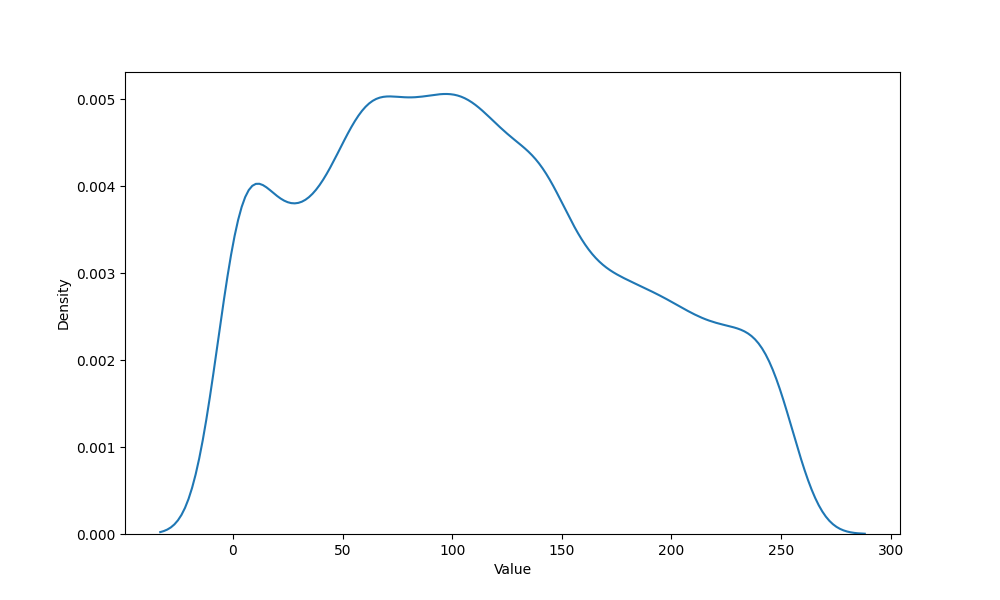
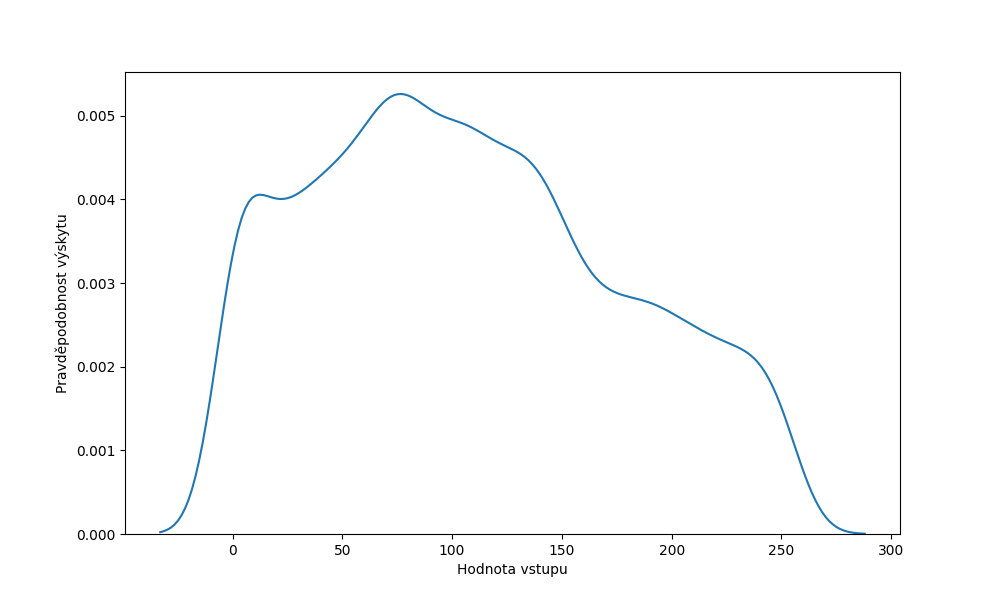
added option to select random number distributions in parser

diff --git a/models/parse.py b/models/parse.py
@@ -1,3 +1,6 @@
+from importlib.metadata import distribution
+from math import dist
+from os import replace
 import re
 import argparse
 
@@ -525,6 +528,85 @@ class Parser(object):
 
 	####################################################################
 
+	def generate_tmul2_tb_random(self, distribution: str) ->; str:
+		"""loads up the tmul2_tb_random UPPAAL template and updates it with the data obtained from
+		user's input arguments.
+		distribution opts: ['uni_ini', 'same_triang', 'beta_uni', 'triang_beta', 'gamma_2norm', 'triang_weibull', 'same_uni', 'const_norm']
+		"""
+		if distribution == "uni_uni":
+			comment = "    //Both inputs uniform distribution\n"
+			replacement =  "    input_a = fint(random(0,imax));\n\n"
+
+			replacement += "    input_b = fint(random(0,imax));\n"
+
+		elif distribution == "same_triang":
+			comment = "    //Both inputs same number - triangular dist. (eg. isqrt algo)\n"
+			replacement =  "    input_a = fint(random_tri(-10,10,imax));\n\n"
+
+			replacement += "    input_b = input_a;\n"
+
+		elif distribution == "beta_uni":
+			comment =  "    //Betavariate dist. and (slightly deformed) uniform dist. (eg. ellipse midpoint algo)\n"
+			replacement =  "    input_a = fint(random_beta(0.5, 5.0));\n"
+			replacement += "    input_a = input_a * 40;\n\n"
+
+			replacement += "    input_b = fint(random(-10,imax));\n"
+			replacement += "    if(input_b &lt; 0) { input_b = fint(random(2,15)); }\n"
+
+		elif distribution == "triang_beta":
+			comment = "    //Triangular dist. and betavariate dist. (eg. AKS primality test)\n"
+			replacement =  "    input_a = fint(random_tri(-50,70,450));\n"
+			replacement += "    if(input_a &gt; imax-1) { input_a = fint(random(0,150)); }\n\n"
+
+			replacement += "    input_b = fint(random_beta(2.0,2.0));\n"
+			replacement += "    input_b = input_b * 255;\n"
+
+		elif distribution == "gamma_2norm":
+			comment = "    //Gammavariate and two normal distributions (eg. Sieve of Pritchard algo.)\n"
+			replacement =  "    input_a = fint(random_gamma(1.0,0.8));\n"
+			replacement += "    input_a = input_a * 7;\n\n"
+
+			replacement += "    input_b = fint(random(0,imax));\n"
+			replacement += "    if(input_b &gt; 100 and input_b &lt; 175) { input_b = fint(random(0,75)); }\n"
+			replacement += "    if(input_b &gt;= 175 and input_b &lt; 200) { input_b = fint(random(200,imax)); }\n"
+
+		elif distribution == "triang_weibull":
+			comment = "    //Triangular and weibullvariate distribution (eg. ElGamal Signature algo.)\n"
+			replacement =  "    input_a = fint(random_tri(0,0,350));\n"
+			replacement += "    if(input_a &gt; 255) { input_a = fint(random(0,50)); }\n\n"
+
+			replacement += "    input_b = fint(random_weibull(1.7,1.7));\n"
+			replacement += "    input_b = input_b * 60;"
+			replacement += "    if(input_b &gt; 255) { input_b = fint(random(0,25)); }\n"
+
+		elif distribution == "same_uni":
+			comment = "    //Both inputs same number, uniform distribution (eg. Circle Point by point algo.)\n"
+			replacement =  "    input_a = fint(random(2,imax));\n\n"
+
+			replacement += "    input_b = input_a;\n"
+
+		elif distribution == "const_norm":
+			comment = "    //Constant 2 and normal distribution (eg. Bresenham line algorithm)\n"
+			replacement =  "    input_a = 2;\n\n"
+			replacement += "    input_b = fint(random_normal(50, 30));\n"
+			replacement += "    if(input_b &lt; 0) { input_b = fint(random(100,imax)); }\n"
+			
+		with open("./templates/tmul2_tb_random_template.xml") as f:
+			original = f.readlines()
+
+		tmul2_tb_random = original
+
+		for i, line in enumerate(original):
+			line = line.strip()
+
+			if line == "//Distribution":
+				tmul2_tb_random[i] = comment
+				tmul2_tb_random.insert(i+1, replacement)
+
+		return "".join(tmul2_tb_random)
+
+	####################################################################
+
 	def append_template(self, path: str):
 		"""Loads up a template for part of the xml file that requires no
 		changing. Appends it to the out_files list.
@@ -537,7 +619,7 @@ class Parser(object):
 
 	####################################################################
 		
-	def generate_parts(self):
+	def generate_parts(self, distribution: str):
 		"""Takes all the templates one by one and prepares them for the final
 		file generation.
 		"""
@@ -554,7 +636,7 @@ class Parser(object):
 		self.append_template("./templates/tmul2_tb_nondet_template.xml")
 
 		#tmul2_tb_random file
-		self.append_template("./templates/tmul2_tb_random_template.xml")
+		self.out_files.append(self.generate_tmul2_tb_random(distribution))
 
 		#syncPrimary file
 		self.append_template("./templates/syncPrimary_template.xml")
@@ -573,17 +655,29 @@ class Parser(object):
 
 
 def main():
+	################################################################
+	#parse input arguments
 	argparser = argparse.ArgumentParser(
 	                    prog='parse.py',
 	                    description='Generate .xml UPPAAL files from verilog templates.')
 	
 	argparser.add_argument('filepath')
-	argparser.add_argument('--noout', action="store_true", default=False)
+	argparser.add_argument('--noout', action="store_true", default=False, help="Don't save the output plot.")
+	argparser.add_argument(
+		'--distribution', '-d', 
+		default="uni_uni",
+		help="Distributions of numbers from the random number generator.",
+		choices=['uni_ini', 'same_triang', 'beta_uni', 'triang_beta', 'gamma_2norm', 'triang_weibull', 'same_uni', 'const_norm']
+		)
 	args = argparser.parse_args()
 
 	path = args.filepath
 	out_path = f"./out/{path.split('/')[-1][:-2]}.xml"
 
+	distribution = args.distribution
+
+	################################################################
+	#parse the input verilog file
 	parser = Parser()
 
 	with open(path) as f:
@@ -609,7 +703,7 @@ def main():
 	parser.update_signals()
 
 	#generate parts of the output file
-	parser.generate_parts()
+	parser.generate_parts(distribution=distribution)
 
 	#write output to xml file
 	if not args.noout:

diff --git a/density/src/rand_number_gen.py b/density/src/rand_number_gen.py
@@ -10,11 +10,17 @@ for i in range(10000):
 	#alpha = 1.0
 	#beta = 0.8
 	#num = random.gammavariate(alpha, beta)
-	#num = int(num * 150)
+	#num = int(num * 7)
 
 	#Sieve of Pritchard - B
-	#num = random.uniform(0, 2000)
+	#num = random.uniform(0, 256)
 	#num = int(num)
+
+	#if 100 < num < 175:
+	#	num = int(random.uniform(0,75))
+
+	#if 175 <= num <= 200:
+	#	num = int(random.uniform(200,255))
 
 	#AKS Primality test - A
 	#num = random.triangular(-50, 450, 70)
@@ -52,27 +58,39 @@ for i in range(10000):
 	#num = int(num)
 
 	#ElGamal Signature Scheme - A
-	#num = random.triangular(-20, 600, 20)
+	#num = random.triangular(0, 350, 0)
 	#num = int(num)
+
+	#if num > 255:
+	#	num = int(random.uniform(0,50))
 
 	#ElGamal Signature Scheme - B
 	#alpha = 1.7
 	#beta = 1.7
 	#num = random.weibullvariate(alpha, beta)
-	#num = int(num * 200)
+	#num = int(num * 60)
 
-	#test
-	num = random.triangular(0,4,0)
+	#if num > 255:
+	#	num = int(random.uniform(0,25))
+
+	#Bresenham - A
+	#num = 2
+
+	#Bresenham - B
+	num = random.gauss(50, 30)
 	num = int(num)
+
+	if num < 0:
+		num = int(random.uniform(100,255))
 
 	numbers.append(num)
 
 
 plt.figure(figsize=(10, 6))
 sns.kdeplot(numbers)
-plt.xlabel('Value')
-plt.ylabel('Density')
+plt.xlabel('Hodnota vstupu')
+plt.ylabel('Pravděpodobnost výskytu')
 plt.grid(False)
-outname = "test"
+outname = "bresenham_b"
 plt.savefig(f"../out/rand_generated_numbers/{outname}_randgen_num.png")
 plt.show()
